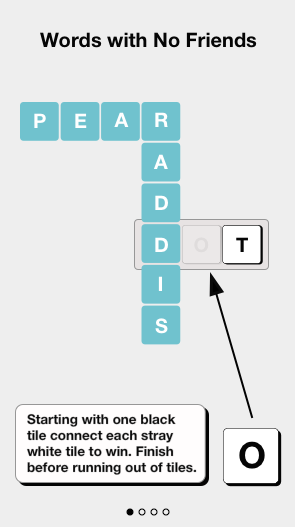
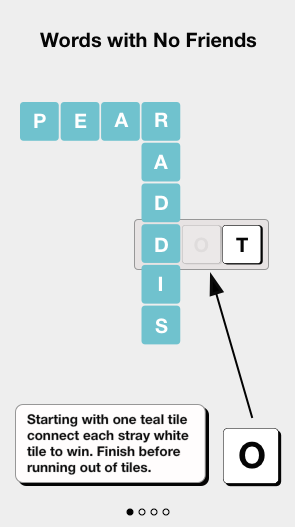
none

Changed region(s): [[0.0915, 0.7894, 0.6712, 0.9108]]

diff --git a/WordGame/MenuViewController.swift b/WordGame/MenuViewController.swift
@@ -7,6 +7,7 @@
 //
 
 import UIKit
+import GCHelper
 
 class MenuViewController: UIViewController {
     var delegate: restartDelegate?// = nil
@@ -15,6 +16,8 @@ class MenuViewController: UIViewController {
     var percentageRank = 4
     var wins = Int()
     var loses = Int()
+    var menuIcon = UIImageView()
+    let myColor = CustomColor()
     
     override func viewWillAppear(_ animated: Bool) {
 
@@ -32,49 +35,59 @@ class MenuViewController: UIViewController {
         view.backgroundColor = UIColor(colorLiteralRed: 1, green: 1, blue: 1, alpha: 0.8)
         
         slide1.backgroundColor = .white
-        slide1.frame = CGRect(x: 40*sw/375, y: 70*sh/667, width: 295*sw/375, height: 527*sh/667)
+        slide1.frame = CGRect(x: 40*sw/375, y: 70*sh/667, width: 295*sw/375, height: 570*sh/667)
         slide1.layer.cornerRadius = sw/50
         slide1.layer.masksToBounds = true
         slide1.layer.borderColor = UIColor.black.cgColor
         slide1.layer.borderWidth = 2
         view.addSubview(slide1)
-        
-        let labels : [(y: CGFloat, height: CGFloat, fontSize: CGFloat, text: String)] = [
-            (104,50,48,"Wins! \(wins)"),
-            (154,24,20,"Loses: \(loses)"),
-            (228,21,16,"Game Center Win Rank:"),
-            (249,24,16,"#\(winRank)"),
-            (273,21,16,"Game Center Percentage Rank:"),
-            (297,24,16,"#\(percentageRank)"),
-            (388,48,16,"Resume"),
-            (454,48,16,"New Game")
+        menuIcon.image = #imageLiteral(resourceName: "menuIcon")
+        menuIcon.frame = CGRect(x: 109*sw/375, y: 84*sh/667, width: 77*sw/375, height: 72*sw/375)
+        slide1.addSubview(menuIcon)
+        let labels : [(y: CGFloat, height: CGFloat, fontSize: CGFloat, text: String, color: UIColor)] = [
+            (205,50,48,"Wins: \(wins)", myColor.purple),
+            (258,24,20,"Loses: \(loses)", .black),
+           // (304,21,16,"Game Center Rank: #\(percentageRank)", myColor.white180),
+            //(444,15,14,"Resume", myColor.teal),
+            //(510,15,14,"New Game", myColor.purple)
         ]
         
-        for (y,height,fontSize,text) in labels {
+        for (y,height,fontSize,text,color) in labels {
             let label = UILabel()
             label.frame = CGRect(x: 0, y: y*sh/667, width: slide1.bounds.width, height: height*sh/667)
             label.font = UIFont(name: "HelveticaNeue-Bold", size: fontSize*fontSizeMultiplier)
             label.text = text
             label.textAlignment = .center
+            label.textColor = color
             slide1.addSubview(label)
         }
+        let button = UIButton()
+        button.setTitle("Game Center Rank: #\(percentageRank)", for: UIControlState.normal)
+        button.frame = CGRect(x: 0, y: 304*sh/667, width: slide1.bounds.width, height: 50*sh/667)
+        button.addTarget(self, action: #selector(MenuViewController.gCenter(_:)), for: .touchUpInside)
+                button.setTitleColor(myColor.white180, for: .normal)
+        button.titleLabel!.font =  UIFont(name: "HelveticaNeue-Bold", size: 16*fontSizeMultiplier)
+        slide1.addSubview(button)
         
-        let buttons : [(y: CGFloat, text: String, selector: Selector)] = [
-            (388,"Resume",#selector(MenuViewController.resumeFunc(_:))),
-            (454,"New Game",#selector(MenuViewController.newGameFunc(_:)))
+        
+        let buttons : [(y: CGFloat, text: String, selector: Selector, color: UIColor)] = [
+            (428,"Resume",#selector(MenuViewController.resumeFunc(_:)),myColor.teal),
+            (494,"New Game",#selector(MenuViewController.newGameFunc(_:)),myColor.purple)
         ]
         
-        for (y,_,selector) in buttons {
+        for (y,text,selector,color) in buttons {
             let button = UIButton()
-//            button.setTitle(text, for: UIControlState.normal)
+            button.setTitle(text, for: UIControlState.normal)
             button.frame = CGRect(x: 67*sw/375, y: y*sh/667, width: 161*sw/375, height: 48*sh/667)
             button.layer.borderWidth = 2
             button.layer.cornerRadius = 2
             button.layer.borderColor = UIColor.black.cgColor
             button.addTarget(self, action: selector, for: .touchUpInside)
+            button.layer.borderWidth = 1
+            button.layer.borderColor = color.cgColor
+            button.setTitleColor(color, for: .normal)
             
-//            button.titleLabel!.font =  UIFont(name: "HelveticaNeue-Bold", size: 16*fontSizeMultiplier)
-//             button.titleLabel!.textColor = .black
+            button.titleLabel!.font =  UIFont(name: "HelveticaNeue-Bold", size: 14*fontSizeMultiplier)
             slide1.addSubview(button)
             
             
@@ -83,7 +96,9 @@ class MenuViewController: UIViewController {
 
     }
     
-    
+    override func viewDidAppear(_ animated: Bool) {
+       GameCenter.shared.auth()
+    }
     
     @objc private func resumeFunc(_ button: UIButton) {
         UIView.animate(withDuration: 0.5) {
@@ -103,6 +118,11 @@ class MenuViewController: UIViewController {
         Set1.winState = false
         delegate?.restart()
         dismiss(animated: true, completion: nil)
+        
+    }
+    @objc private func gCenter(_ button: UIButton) {
+        
+            GCHelper.sharedInstance.showGameCenter(self, viewState: .leaderboards)
         
     }
     @objc private func swipeFunc(_ gesture: UIPanGestureRecognizer) {

diff --git a/WordGame/GameViewController.swift b/WordGame/GameViewController.swift
@@ -599,6 +599,8 @@ class GameViewController: UIViewController, UIGestureRecognizerDelegate, UIScrol
                     //      win.textColor = UIColor(colorLiteralRed: Float(drand48()), green: Float(drand48()), blue: Float(drand48()), alpha: 1.0)
                 }
             }
+            
+            
         }
         view.removeGestureRecognizer(tap)
         view.removeGestureRecognizer(pan)
@@ -1021,7 +1023,7 @@ class GameViewController: UIViewController, UIGestureRecognizerDelegate, UIScrol
         
         guard isWordBuildable == true else {
             //          var isFirstPlayFunc = true
-            let alert = UIAlertController(title: word.uppercased(), message: "Must build off black tiles", preferredStyle: UIAlertControllerStyle.alert)
+            let alert = UIAlertController(title: word.uppercased(), message: "Must build off teal tiles", preferredStyle: UIAlertControllerStyle.alert)
             alert.addAction(UIAlertAction(title: "Okay", style: UIAlertActionStyle.default, handler: nil))
             self.present(alert, animated: true, completion: nil)
             return nil

diff --git a/WordGame/TutorialViewController.swift b/WordGame/TutorialViewController.swift
@@ -13,6 +13,7 @@ class TutorialViewController: UIViewController {
     let slide2 = UIImageView()
     let slide3 = UIImageView()
     let slide4 = UIImageView()
+    let myColor = CustomColor()
     
     var viewOnScreen = UIImageView()
     
@@ -20,7 +21,7 @@ class TutorialViewController: UIViewController {
         super.viewDidLoad()
         let pan = UIPanGestureRecognizer(target: self, action: #selector(TutorialViewController.swipeFunc(_:)))
         view.addGestureRecognizer(pan)
-        view.backgroundColor = UIColor(colorLiteralRed: 1, green: 1, blue: 1, alpha: 0.8)
+        view.backgroundColor = myColor.white238//UIColor(colorLiteralRed: 1, green: 1, blue: 1, alpha: 0.8)
         viewOnScreen = slide1
         setupSlide1()
         setupSlide2()

diff --git a/WordGame/Extensions.swift b/WordGame/Extensions.swift
@@ -44,8 +44,10 @@ extension UIViewController {
 struct CustomColor {
     let white245 = UIColor(colorLiteralRed: 255/255, green: 255/255, blue: 255/255, alpha: 1.0)
     let white234 = UIColor(colorLiteralRed: 227/255, green: 227/255, blue: 227/255, alpha: 1.0)
+    let white238 = UIColor(colorLiteralRed: 238/255, green: 238/255, blue: 238/255, alpha: 1.0)
     let teal = UIColor(colorLiteralRed: 112/255, green: 194/255, blue: 206/255, alpha: 1.0)
     let purple = UIColor(colorLiteralRed: 176/255, green: 137/255, blue: 231/255, alpha: 1.0)
+    let white180 = UIColor(colorLiteralRed: 180/255, green: 180/255, blue: 180/255, alpha: 1.0)
 }
 
 public struct Set1 {

diff --git a/WordGame/GameCenter.swift b/WordGame/GameCenter.swift
@@ -1,0 +1,28 @@
+//
+//  GameCenter.swift
+//  Fooble
+//
+//  Created by Aaron Halvorsen on 1/4/17.
+//  Copyright © 2017 Aaron Halvorsen. All rights reserved.
+//
+
+import Foundation
+import GCHelper
+
+struct GameCenter {
+    static let shared = GameCenter()
+    func addDataToGameCenter(wins: Int) {
+        if wins > 0 {
+            GCHelper.sharedInstance.reportLeaderboardIdentifier("24f4nvaeroin49043", score: wins)
+        }
+        
+        
+    }
+    
+    func auth() {
+        GCHelper.sharedInstance.authenticateLocalUser()
+    }
+    
+    
+    
+}

diff --git a/WordGame/LoadSaveCoreData.swift b/WordGame/LoadSaveCoreData.swift
@@ -93,8 +93,7 @@ class LoadSaveCoreData {
     }
     
     func saveState() {
-        print("savestate")
-        print(Set1.atBatRawValue)
+        GameCenter.shared.addDataToGameCenter(wins: Set1.wins)
         let appDel = UIApplication.shared.delegate as! AppDelegate
         let context = appDel.persistentContainer.viewContext
         
